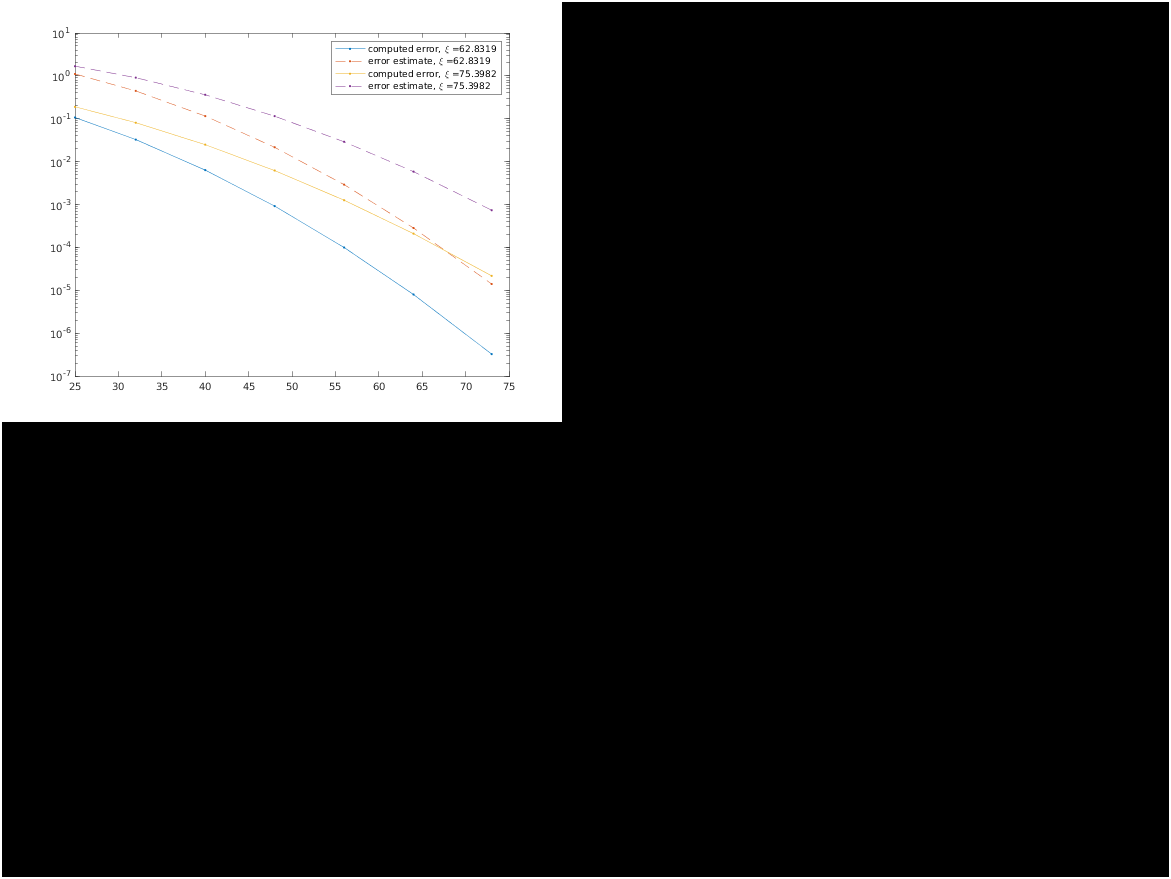
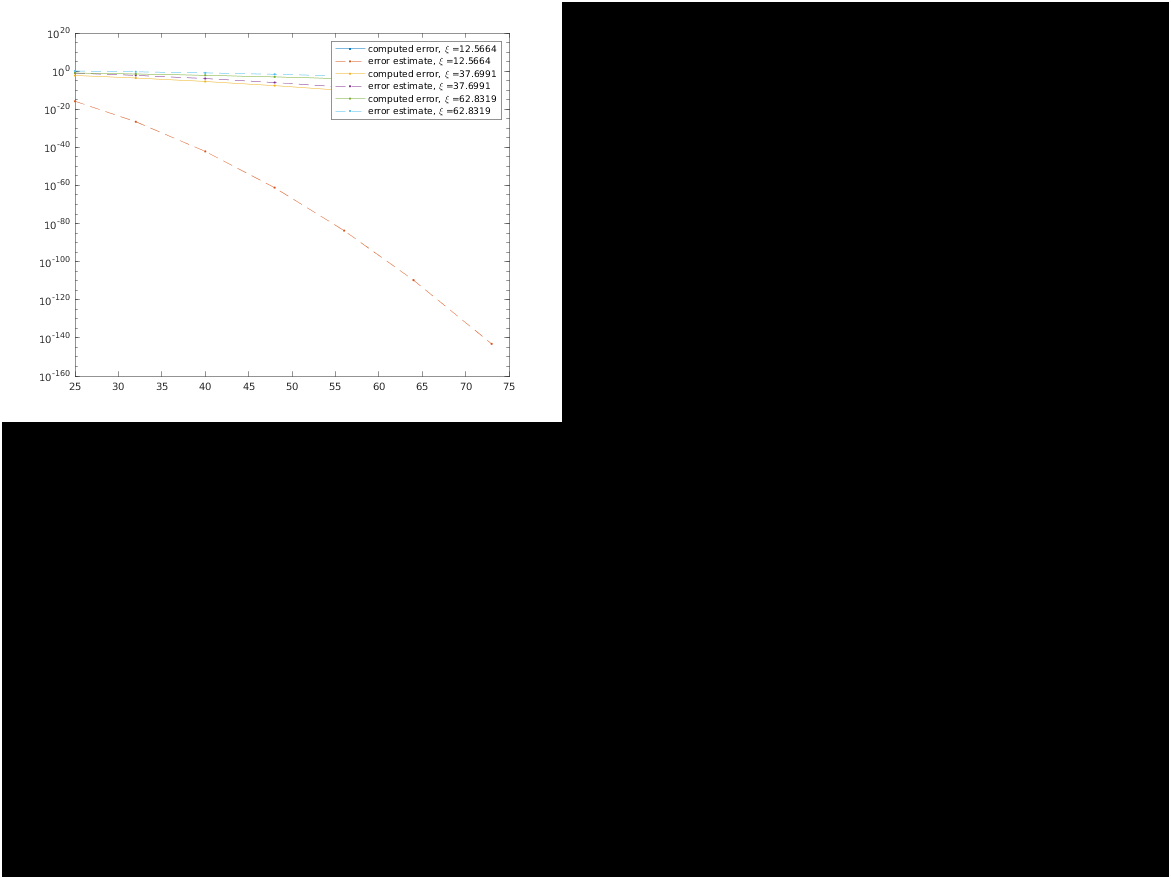
some more fixes

diff --git a/SE_Stokes_run/SE3P_Stokes/param_select.m b/SE_Stokes_run/SE3P_Stokes/param_select.m
@@ -27,7 +27,7 @@ opt.betaP = 2.5;
 ED_opt.layers = (opt.M(1)-1)/2;
 ED_opt.box = box;
 refv = [];
-xx = (20:4:24)*pi;
+xx = (4:8:20)*pi;
 
     %% Direct solution
     if(~exist('refval.mat'))
@@ -69,7 +69,6 @@ for xi = xx
         ee = [ee, esti];
     end
 semilogy(MM./2,err,'.-')
-disp(err)
 hold on
 semilogy(MM./2,ee,'.--')
 str = [str,strcat('computed error, \xi =', num2str(xi))];
